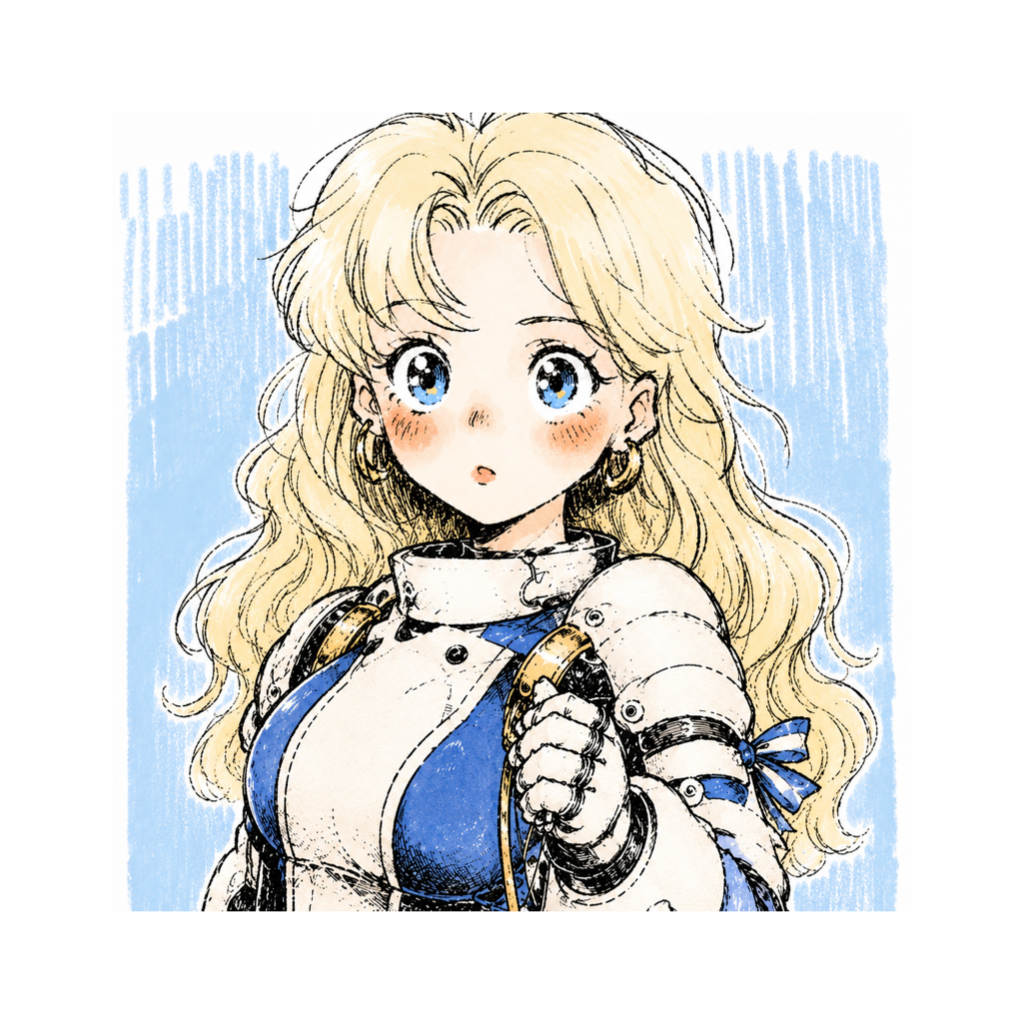
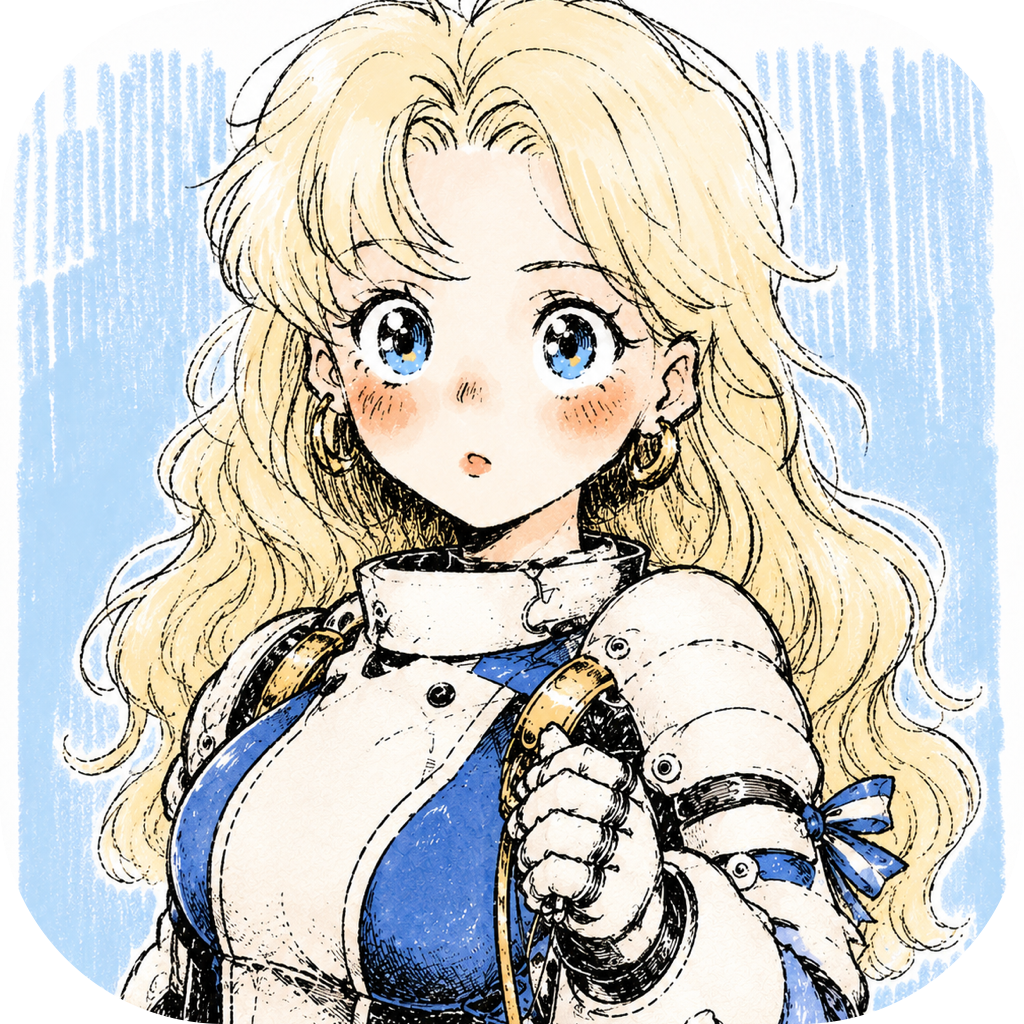
fix(electron): serve packaged bundle via app:// scheme
Loading the adapter-static fallback index.html over file:// breaks
because absolute asset paths (/_app/immutable/...) resolve against the
filesystem root, leaving the packaged window blank with
ERR_FILE_NOT_FOUND. Register a privileged standard app:// scheme and
serve the build directory through it so absolute paths resolve against
the bundle root, with a path-traversal guard and an index.html fallback
for client-side routes.

Also revert the ineffective paths.relative / vite base config tweaks
that did not change the generated HTML.

fix(icons): fill the macOS Dock tile edge-to-edge

Bump the app-icon artworkScale from 0.78 to 1.0 so the artwork covers
the rounded tile (object-cover) instead of being letterboxed with white
padding, and regenerate icon.png/icns/app_icon.png.

diff --git a/scripts/generate-project-icons.swift b/scripts/generate-project-icons.swift
@@ -61,9 +61,10 @@ let outputs = [
 	Output(path: "static/project_avatar_96.png", size: 96, radius: 48, artworkScale: 1.0),
 	Output(path: "static/project_avatar_192.png", size: 192, radius: 96, artworkScale: 1.0),
 	Output(path: "static/project_avatar_384.png", size: 384, radius: 192, artworkScale: 1.0),
-	// macOS app icons need padding so the artwork does not fill the whole Dock tile.
-	Output(path: "static/app_icon.png", size: 1024, radius: 224, artworkScale: 0.78),
-	Output(path: "buildResources/icon.png", size: 1024, radius: 224, artworkScale: 0.78)
+	// macOS app icons fill the rounded tile edge-to-edge (object-cover) so the
+	// artwork is not letterboxed with empty padding in the Dock.
+	Output(path: "static/app_icon.png", size: 1024, radius: 224, artworkScale: 1.0),
+	Output(path: "buildResources/icon.png", size: 1024, radius: 224, artworkScale: 1.0)
 ]
 
 guard let source = CGImageSourceCreateWithURL(URL(fileURLWithPath: sourcePath) as CFURL, nil),

diff --git a/svelte.config.js b/svelte.config.js
@@ -12,10 +12,7 @@ const config = {
 			fallback: 'index.html',
 			precompress: false,
 			strict: false
-		}),
-		paths: {
-			relative: true
-		}
+		})
 	}
 };
 

diff --git a/vite.config.ts b/vite.config.ts
@@ -4,7 +4,6 @@ import { defineConfig } from 'vite';
 
 export default defineConfig({
 	plugins: [tailwindcss(), sveltekit()],
-	base: './',
 	server: {
 		port: 5173,
 		strictPort: true